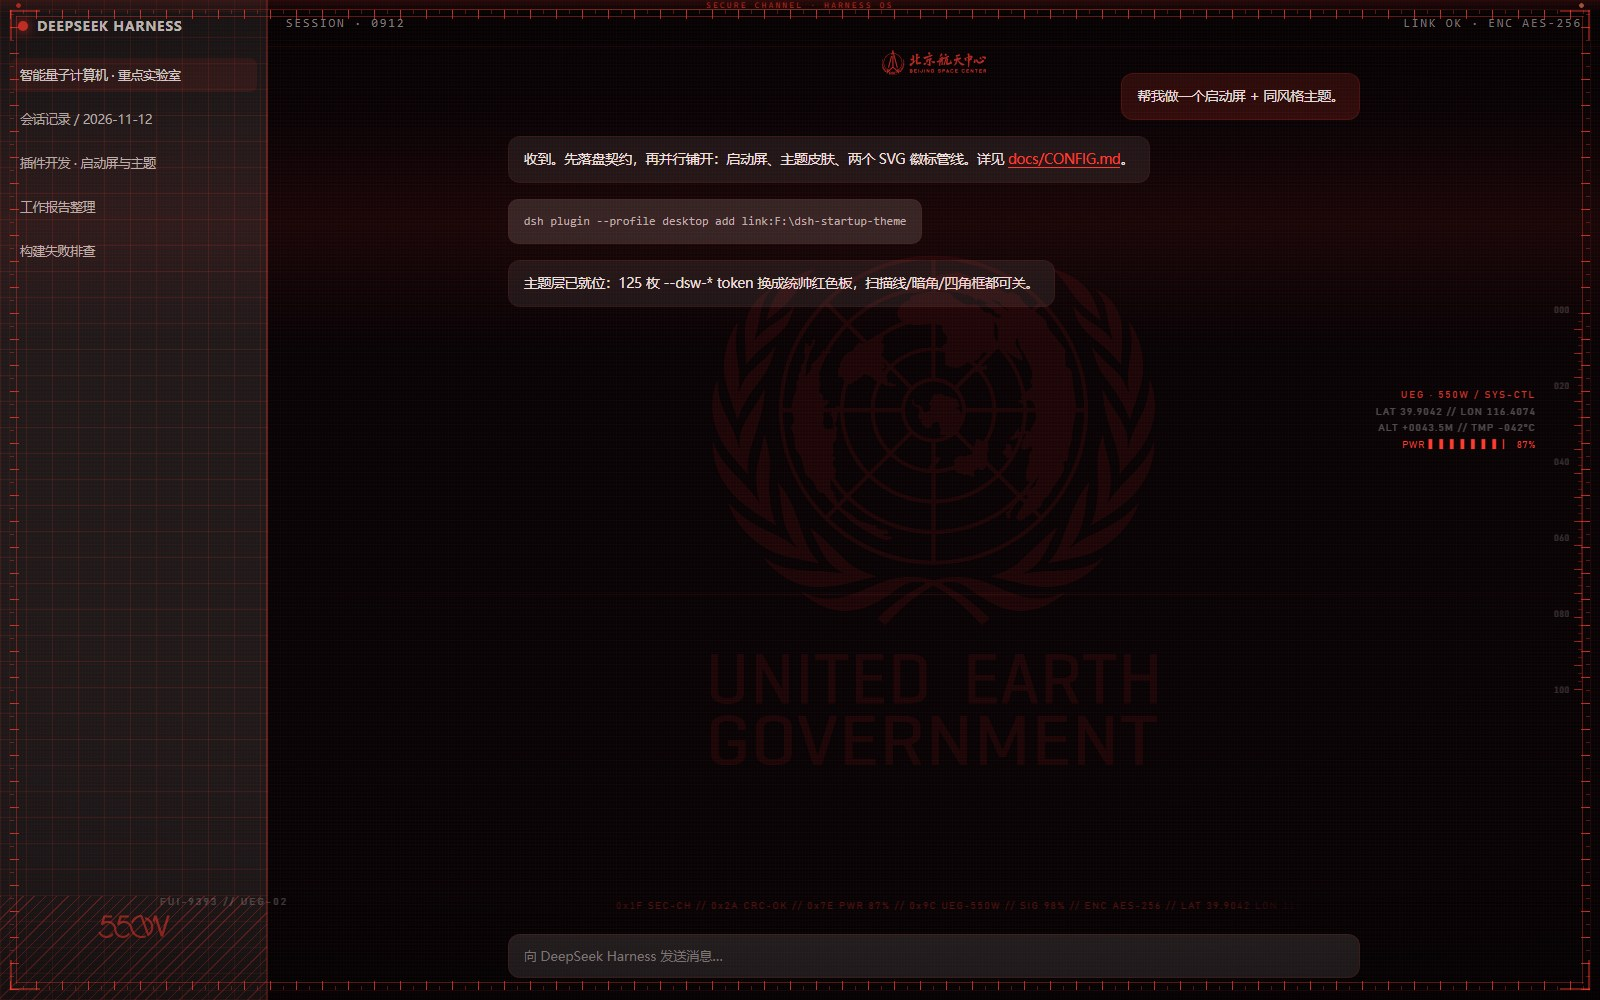
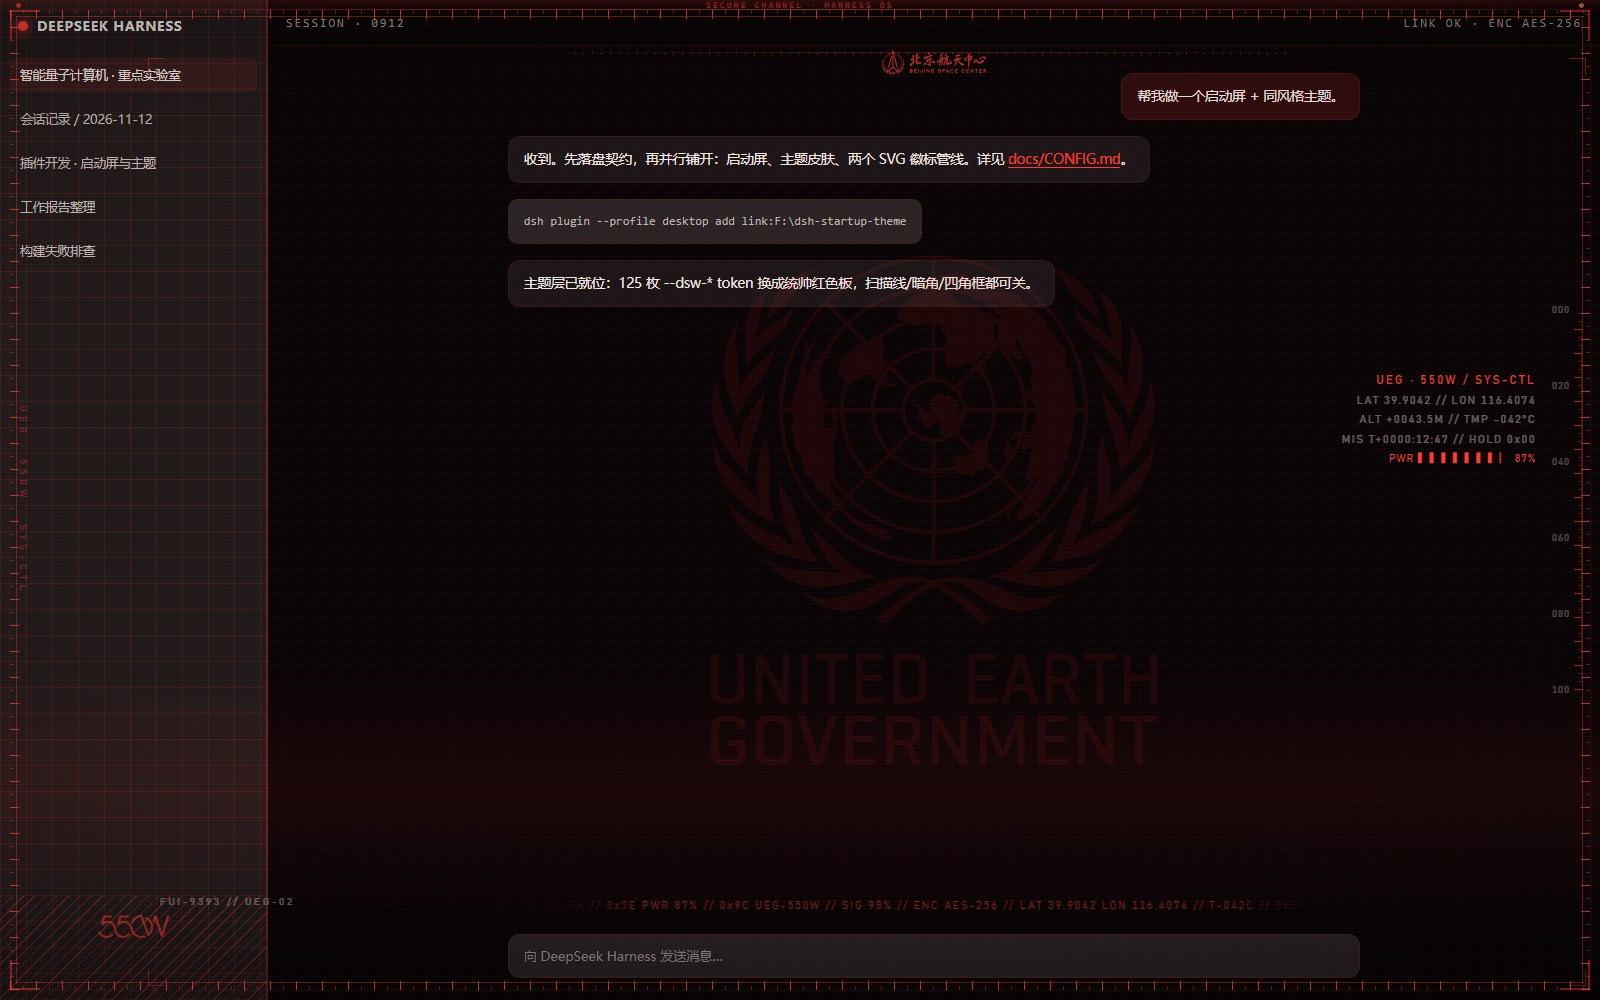
feat(fui): panel tick rulers, content reticles, vertical agency label, top rail, boosted readability (v1.1.3)

Changed region(s): [[0.8438, 0.372, 0.9688, 0.465], [0.5, 0.899, 0.5312, 0.93], [0.4062, 0.899, 0.4375, 0.93]]

diff --git a/lib/theme.css b/lib/theme.css
@@ -589,13 +589,20 @@ html[data-dsh-command="on"]
     repeating-linear-gradient(45deg, var(--dsc-hud-tick-soft) 0 1px, transparent 1px 3px),
     repeating-linear-gradient(45deg, var(--dsc-hud-tick-soft) 0 1px, transparent 1px 3px),
     repeating-linear-gradient(45deg, var(--dsc-hud-tick-soft) 0 1px, transparent 1px 3px),
-    repeating-linear-gradient(45deg, var(--dsc-hud-tick-soft) 0 1px, transparent 1px 3px);
+    repeating-linear-gradient(45deg, var(--dsc-hud-tick-soft) 0 1px, transparent 1px 3px),
+    /* ⑥ 顶部细刻度尺（FUI 校准尺） */
+    repeating-linear-gradient(90deg, var(--dsc-hud-tick-soft) 0 1px, transparent 1px 12px),
+    /* ⑦ 左侧细刻度尺 */
+    repeating-linear-gradient(0deg, var(--dsc-hud-tick-soft) 0 1px, transparent 1px 12px),
+    /* ⑧ 底部刻度尺 */
+    repeating-linear-gradient(90deg, var(--dsc-hud-tick) 0 1px, transparent 1px 26px);
   background-repeat: no-repeat;
   background-size:
     14px 1px, 1px 14px, 14px 1px, 1px 14px, 14px 1px, 1px 14px, 14px 1px, 1px 14px,
     calc(100% - 14px) 1px, calc(100% - 14px) 1px, 1px calc(100% - 14px), 1px calc(100% - 14px),
     calc(100% - 28px) 1px, 100% 22px,
-    7px 7px, 7px 7px, 7px 7px, 7px 7px;
+    7px 7px, 7px 7px, 7px 7px, 7px 7px,
+    calc(100% - 28px) 6px, 6px calc(100% - 28px), calc(100% - 28px) 3px;
   background-position:
     left 7px top 7px, left 7px top 7px,
     right 7px top 7px, right 7px top 7px,
@@ -603,7 +610,8 @@ html[data-dsh-command="on"]
     right 7px bottom 7px, right 7px bottom 7px,
     7px 7px, 7px calc(100% - 8px), 7px 7px, calc(100% - 8px) 7px,
     14px 7px, left bottom,
-    4px 4px, right 4px top 4px, left 4px bottom 4px, right 4px bottom 4px;
+    4px 4px, right 4px top 4px, left 4px bottom 4px, right 4px bottom 4px,
+    14px 9px, 9px 14px, 14px calc(100% - 4px);
   /* 发丝描边用 outline 而不是 box-shadow：outline 不参与布局，也不会覆盖面板自带的
      elevation（box-shadow）—— 宿主的面板阴影原样保留。 */
   outline: 1px solid var(--dsc-hud-stroke);
@@ -1260,24 +1268,25 @@ html[data-dsh-command="on"] [role="progressbar"] > * {
   top: 42%;
   transform: translateY(-50%);
   display: grid;
-  gap: 3px;
+  gap: 4px;
   justify-items: end;
-  font-size: 10px;
-  line-height: 1.35;
-  letter-spacing: .12em;
-  color: color-mix(in srgb, var(--dsc-text, #f3e7e4) 42%, transparent);
+  font-size: 11px;
+  line-height: 1.4;
+  letter-spacing: .13em;
+  color: color-mix(in srgb, var(--dsc-text, #f3e7e4) 56%, transparent);
   text-align: right;
 }
 
 .dsc-deco__tele b {
-  color: color-mix(in srgb, var(--dsc-accent, #ff3b30) 82%, transparent);
+  color: color-mix(in srgb, var(--dsc-accent, #ff3b30) 94%, transparent);
   font-weight: 600;
-  letter-spacing: .18em;
+  font-size: 11.5px;
+  letter-spacing: .2em;
 }
 
 .dsc-deco__tele i {
   font-style: normal;
-  color: color-mix(in srgb, var(--dsc-text, #f3e7e4) 30%, transparent);
+  color: color-mix(in srgb, var(--dsc-text, #f3e7e4) 40%, transparent);
 }
 
 .dsc-deco__tele .dsc-deco__bars {
@@ -1290,9 +1299,9 @@ html[data-dsh-command="on"] [role="progressbar"] > * {
   position: absolute;
   left: calc(var(--dsc-content-shift, 134px) + 26px);
   bottom: 92px;
-  font-size: 9.5px;
+  font-size: 10px;
   letter-spacing: .26em;
-  color: color-mix(in srgb, var(--dsc-text, #f3e7e4) 26%, transparent);
+  color: color-mix(in srgb, var(--dsc-text, #f3e7e4) 40%, transparent);
   white-space: nowrap;
 }
 
@@ -1315,9 +1324,9 @@ html[data-dsh-command="on"] [role="progressbar"] > * {
   position: absolute;
   right: 12px;
   font-style: normal;
-  font-size: 8.5px;
+  font-size: 9.5px;
   letter-spacing: .1em;
-  color: color-mix(in srgb, var(--dsc-text, #f3e7e4) 24%, transparent);
+  color: color-mix(in srgb, var(--dsc-text, #f3e7e4) 36%, transparent);
   transform: translateY(-50%);
 }
 
@@ -1332,10 +1341,10 @@ html[data-dsh-command="on"] [role="progressbar"] > * {
   white-space: nowrap;
   mask-image: linear-gradient(90deg, transparent, #000 12%, #000 88%, transparent);
   -webkit-mask-image: linear-gradient(90deg, transparent, #000 12%, #000 88%, transparent);
-  font-size: 9.5px;
+  font-size: 10.5px;
   letter-spacing: .18em;
-  color: color-mix(in srgb, var(--dsc-accent, #ff3b30) 46%, transparent);
-  opacity: .75;
+  color: color-mix(in srgb, var(--dsc-accent, #ff3b30) 62%, transparent);
+  opacity: .88;
 }
 
 .dsc-deco__ticker span {
@@ -1381,4 +1390,71 @@ html[data-dsh-command="on"] [role="progressbar"] > * {
   .dsc-deco__sweep {
     animation: none;
   }
+}
+
+
+/* ── 内容区四角 reticle（相机取景框的角标，套在会话内容区外框） ── */
+.dsc-deco__reticle {
+  position: absolute;
+  width: 100%;
+  height: 100%;
+  pointer-events: none;
+}
+
+.dsc-deco__reticle i {
+  position: absolute;
+  width: 16px;
+  height: 16px;
+  border: 1px solid color-mix(in srgb, var(--dsc-accent, #ff3b30) 48%, transparent);
+}
+
+.dsc-deco__reticle i:nth-child(1) { left: calc(50% + var(--dsc-content-shift, 134px) - var(--dsc-content-w, 100vw) / 2 + 14px); top: 58px; border-right: 0; border-bottom: 0; }
+.dsc-deco__reticle i:nth-child(2) { right: 14px; top: 58px; border-left: 0; border-bottom: 0; }
+.dsc-deco__reticle i:nth-child(3) { left: calc(50% + var(--dsc-content-shift, 134px) - var(--dsc-content-w, 100vw) / 2 + 14px); bottom: 14px; border-right: 0; border-top: 0; }
+.dsc-deco__reticle i:nth-child(4) { right: 14px; bottom: 14px; border-left: 0; border-top: 0; }
+
+/* ── 左缘竖排机构标签（writing-mode） ── */
+.dsc-deco__vlabel {
+  position: absolute;
+  left: max(14px, 1.1vw);
+  top: 50%;
+  transform: translateY(-50%);
+  writing-mode: vertical-rl;
+  font: 500 10px/1 "Bahnschrift", "Consolas", monospace;
+  letter-spacing: .46em;
+  color: color-mix(in srgb, var(--dsc-accent, #ff3b30) 52%, transparent);
+  white-space: nowrap;
+  opacity: .8;
+}
+
+/* ── 内容区顶部刻度带（贴着内容区上沿，缓慢横向流动） ── */
+.dsc-deco__rail {
+  position: absolute;
+  left: calc(50% + var(--dsc-content-shift, 134px));
+  top: 52px;
+  width: min(52vw, 720px);
+  height: 5px;
+  transform: translateX(-50%);
+  background:
+    repeating-linear-gradient(90deg, var(--dsc-hud-tick-soft) 0 1px, transparent 1px 9px) 0 0 / 100% 3px no-repeat,
+    linear-gradient(90deg, transparent, color-mix(in srgb, var(--dsc-accent, #ff3b30) 38%, transparent), transparent) 0 0 / 100% 1px no-repeat;
+  opacity: .7;
+  animation: dsc-fui-rail 9s ease-in-out infinite;
+}
+
+@keyframes dsc-fui-rail {
+  0%, 100% { background-position: 0 0, 0 0; opacity: .45; }
+  50% { background-position: 0 0, 0 0; opacity: .85; }
+}
+
+@media (max-width: 1100px) {
+  .dsc-deco__reticle,
+  .dsc-deco__vlabel,
+  .dsc-deco__rail {
+    display: none;
+  }
+}
+
+@media (prefers-reduced-motion: reduce) {
+  .dsc-deco__rail { animation: none; }
 }

diff --git a/preview/index.html b/preview/index.html
@@ -104,11 +104,15 @@
   <div class="dsc-deco__model"></div>
   <div class="dsc-deco__fui">
     <div class="dsc-deco__sweep"></div>
+    <div class="dsc-deco__rail"></div>
+    <div class="dsc-deco__reticle"><i></i><i></i><i></i><i></i></div>
+    <div class="dsc-deco__vlabel">UEG · 550W · SYS-CTL</div>
     <div class="dsc-deco__serial">FUI-9393 // UEG-02</div>
     <div class="dsc-deco__tele">
       <b>UEG · 550W / SYS-CTL</b>
       <i>LAT 39.9042  //  LON 116.4074</i>
       <i>ALT +0043.5M  //  TMP -042&deg;C</i>
+      <i>MIS T+0000:12:47  //  HOLD 0x00</i>
       <span class="dsc-deco__bars">PWR &#9613;&#9613;&#9613;&#9613;&#9613;&#9613;&#9613;&#9615; 87%</span>
     </div>
     <div class="dsc-deco__scale"><em style="top:0%">000</em><em style="top:20%">020</em><em style="top:40%">040</em><em style="top:60%">060</em><em style="top:80%">080</em><em style="top:100%">100</em></div>

diff --git a/lib/index.js b/lib/index.js
@@ -506,11 +506,15 @@ setTimeout(function(){try{
 const DECO_FUI_HTML = [
   '<div class="dsc-deco__fui" aria-hidden="true">',
     '<div class="dsc-deco__sweep"></div>',
+    '<div class="dsc-deco__rail"></div>',
+    '<div class="dsc-deco__reticle"><i></i><i></i><i></i><i></i></div>',
+    '<div class="dsc-deco__vlabel">UEG · 550W · SYS-CTL</div>',
     '<div class="dsc-deco__serial">FUI-9393 // UEG-02</div>',
     '<div class="dsc-deco__tele">',
       '<b>UEG · 550W / SYS-CTL</b>',
       '<i>LAT 39.9042  //  LON 116.4074</i>',
       '<i>ALT +0043.5M  //  TMP -042&deg;C</i>',
+      '<i>MIS T+0000:12:47  //  HOLD 0x00</i>',
       '<span class="dsc-deco__bars">PWR &#9613;&#9613;&#9613;&#9613;&#9613;&#9613;&#9613;&#9615; 87%</span>',
     '</div>',
     '<div class="dsc-deco__scale">',

diff --git a/README.md b/README.md
@@ -374,7 +374,13 @@ curl -X POST http://127.0.0.1:10022/dsh-command/config -d '{"action":"reset"}'
 - **校准刻度**（右缘）：000–100 的竖排刻度 + 长短两档 tick；
 - **数据条**（内容区底部）：缓慢横向滚动的十六进制读数，两侧用 mask 淡出；
 - **序列号**（内容区左下）：`FUI-9393 // UEG-02`；
-- **扫描线**：内容区一条 1px 主线每 11s 从上往下扫一次（`prefers-reduced-motion` 时停）。
+- **扫描线**：内容区一条 1px 主线每 11s 从上往下扫一次（`prefers-reduced-motion` 时停）；
+- **内容区 reticle（取景框角标）**：会话内容区四角的 16px 直角标；
+- **左缘竖排机构标签**：`UEG · 550W · SYS-CTL`（writing-mode 竖排，贴左缘）；
+- **内容区顶部刻度带**：贴着顶部的一条 5px 刻度带，亮度缓慢呼吸（9s）；
+- **面板刻度尺（§5）**：composer / dock 面板在原有四角框之外，又加了顶部 + 左侧细刻度尺和底部刻度，像仪表面板。
+
+另外遥测块/数据条/序列号/刻度的字号和透明度整体调高了一档，弱光下也能看清；全部元素窄屏自动隐藏、HUD 关掉一起消失。
 
 这些都受 `--dsc-hud-ui-alpha` 闸门控制，HUD 关掉时一起消失；窄屏（<1100px）自动隐藏。开屏那边则是雷达环 + 旋扫锥 + 左右读数，同样是纯 CSS。
 
